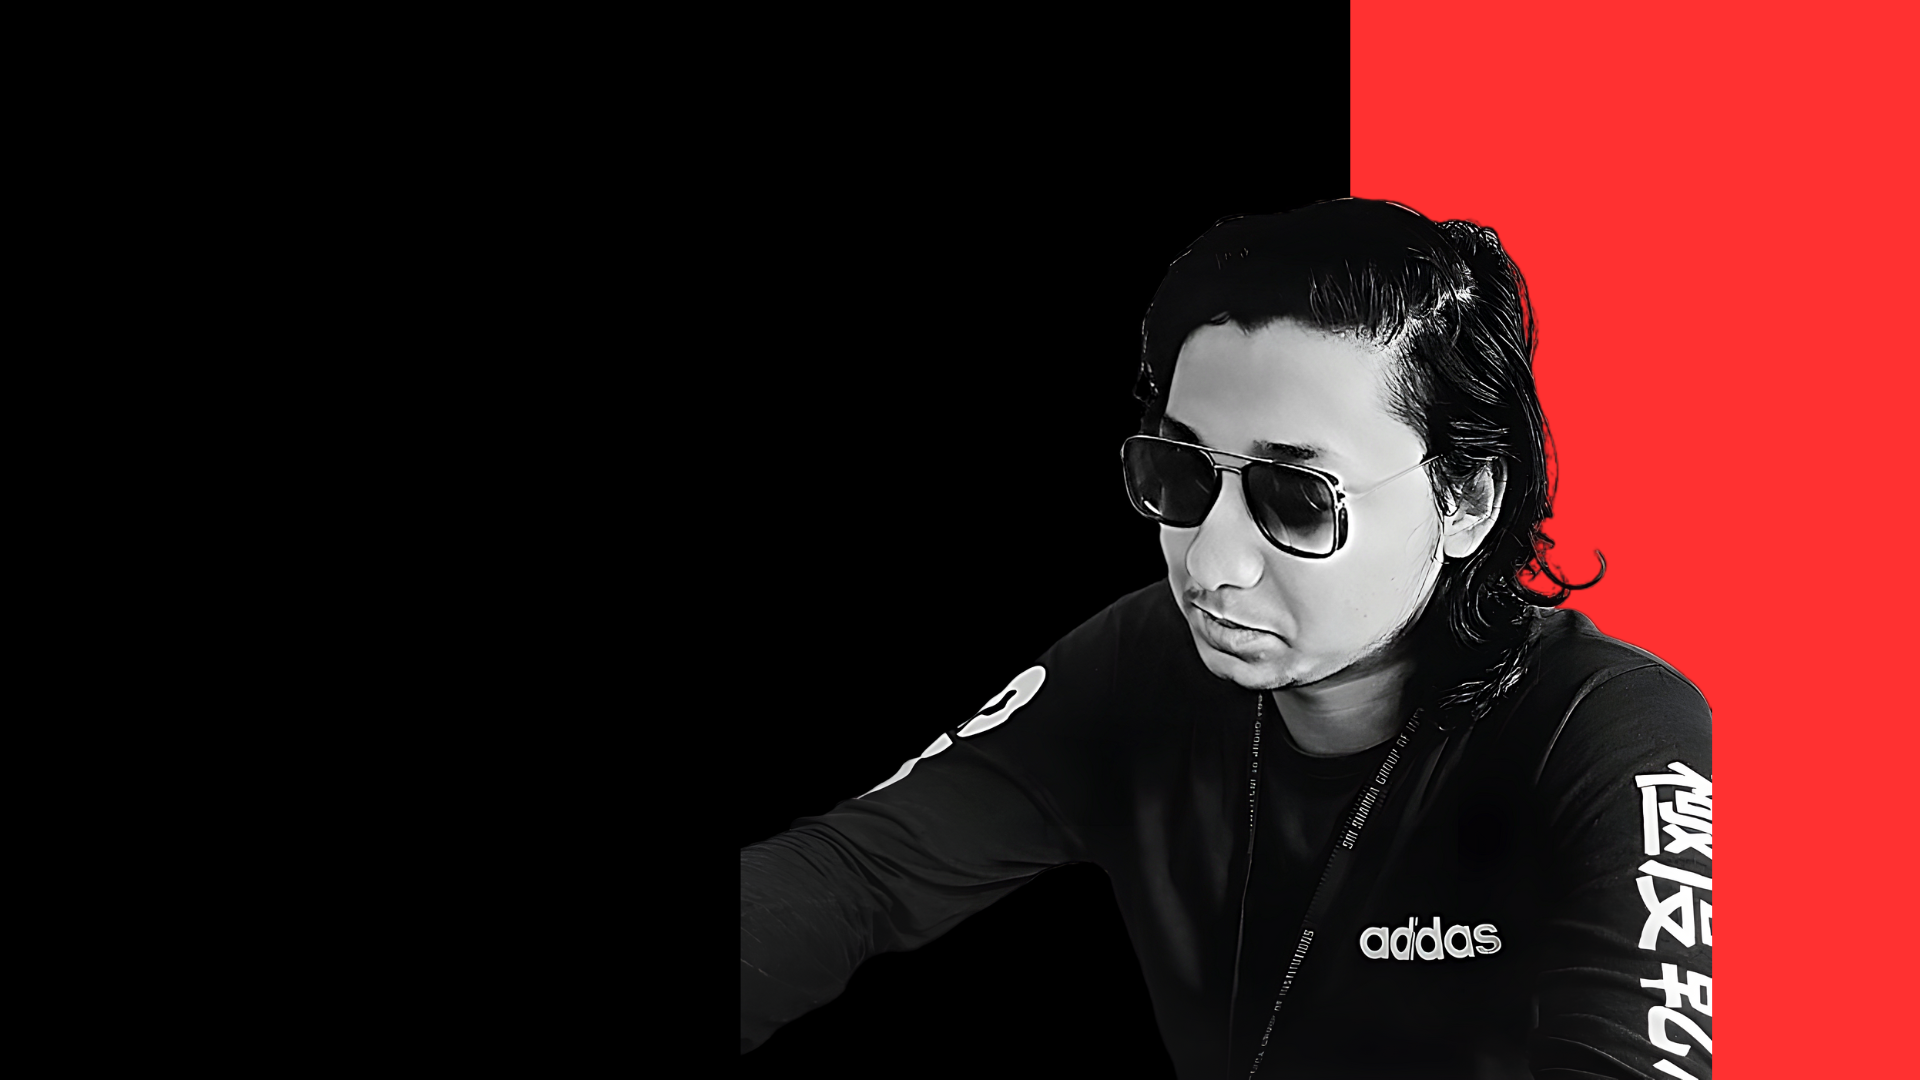
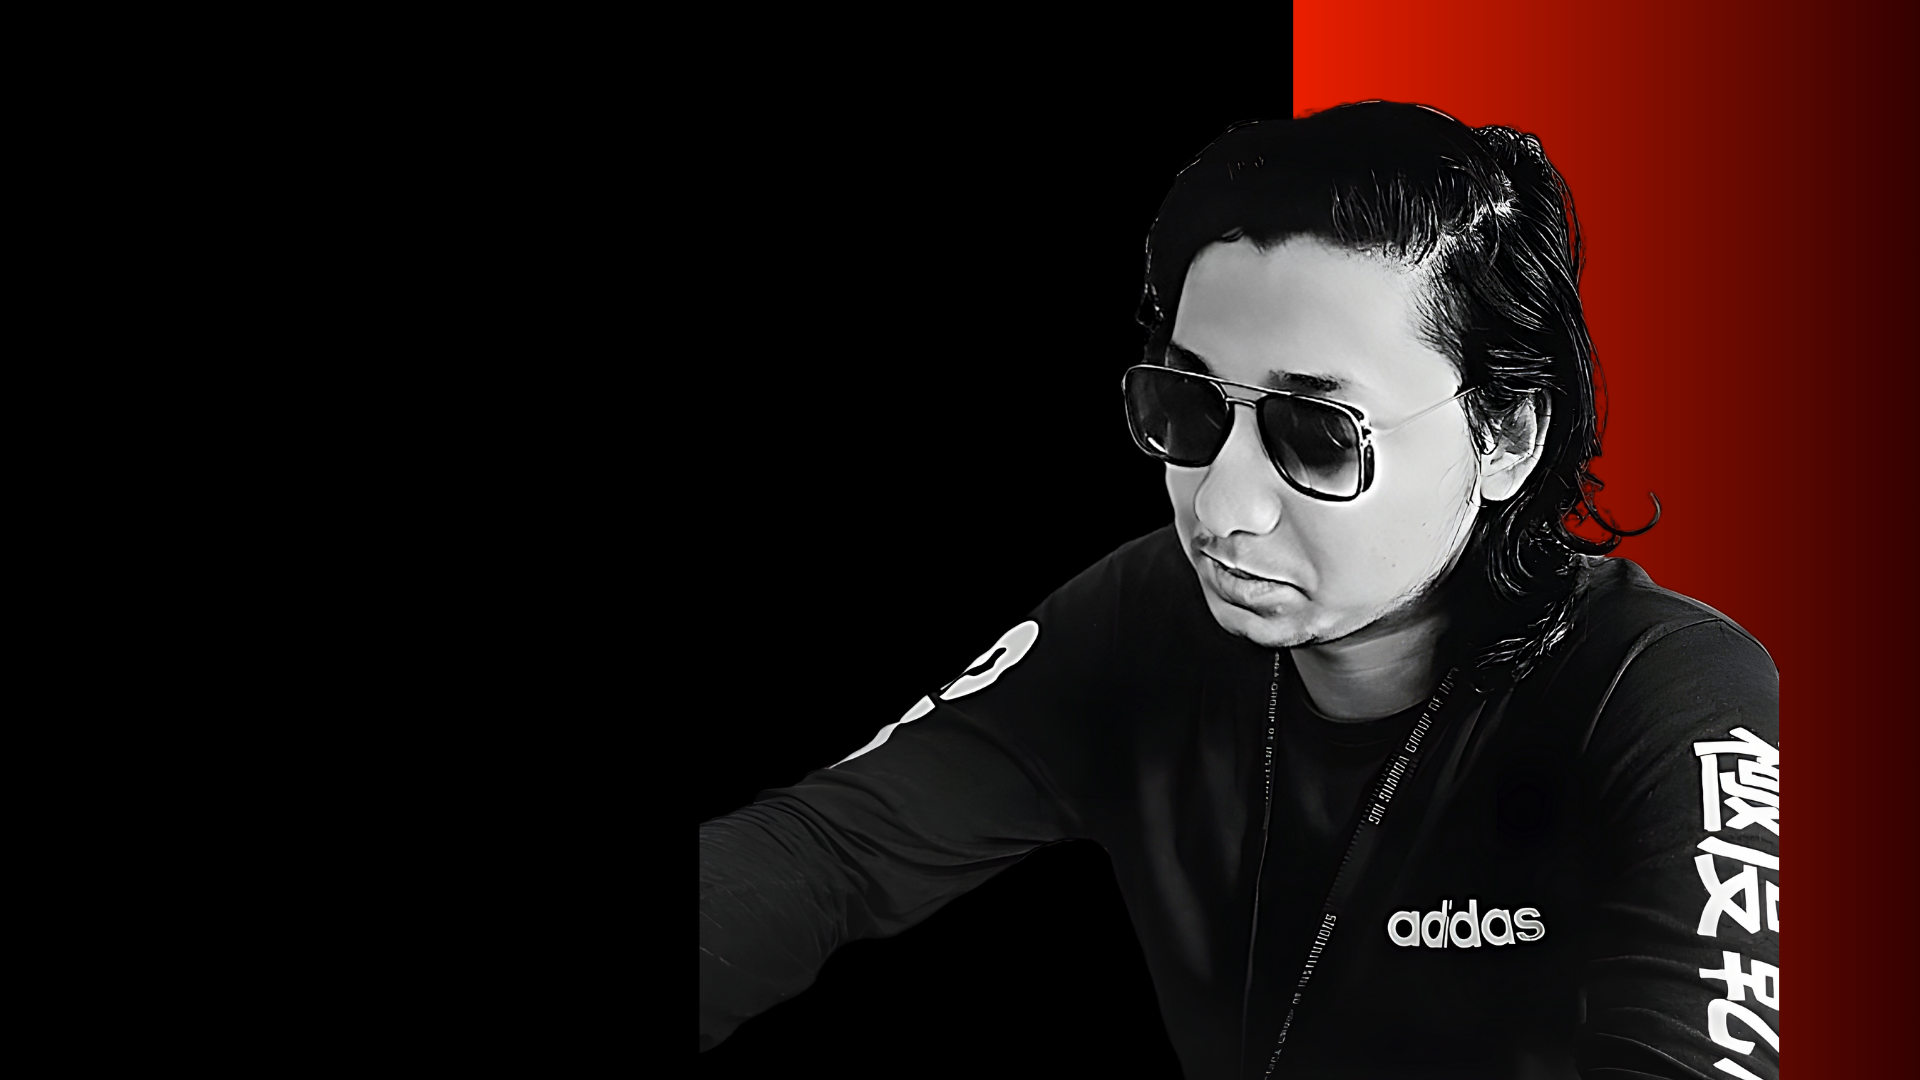
image changed

diff --git a/frontend/src/components/Hero.jsx b/frontend/src/components/Hero.jsx
@@ -1,8 +1,8 @@
 import React, { useEffect } from 'react';
 import './hero.css';
-import { useTypewriter, Cursor } from 'react-simple-typewriter'
-import AOS from 'aos'
-import 'aos/dist/aos.css'
+import { useTypewriter, Cursor } from 'react-simple-typewriter';
+import AOS from 'aos';
+import 'aos/dist/aos.css';
 import { AiFillGithub, AiFillInstagram, AiOutlineTwitter } from 'react-icons/ai';
 import { FaFacebookSquare, FaLinkedinIn, FaSnapchatSquare } from 'react-icons/fa';
 import { RiTwitterXLine } from "react-icons/ri";
@@ -25,7 +25,7 @@ const Hero = () => {
     return (
         <section className=" sticky top-0   hidden md:block" >
             <div className=" body-font   ">
-                <img src="bggg.png" alt="" className="absolute object-cover w-full h-full" />
+                <img src="bghero.png" alt="" className="absolute object-cover w-full h-full" />
                 <div className="container  mx-auto flex px-5 py-24 md:flex-row flex-col items-center pt-60  pb-64">
                     <div className="ml-20 -mt-20 lg:flex-1 md:w-1/2 lg:pr-24 md:pr-16 flex flex-col md:items-start md:text-left  items-center text-center" data-aos="fade-right">
 
@@ -112,13 +112,7 @@ const Hero = () => {
                             </ul>
                         </div>
                     </div>
-                    <div className="lg:max-w-xl  lg:w-full md:w-1/2 w-5/6 pt-20 ">
-                        {/* <img
-                            className="object-cover object-center  ml-36 "
-                            alt="hero"
-                            src="Sachinimg.png"
-                        /> */}
-                    </div>
+
                 </div>
             </div>
         </section>
